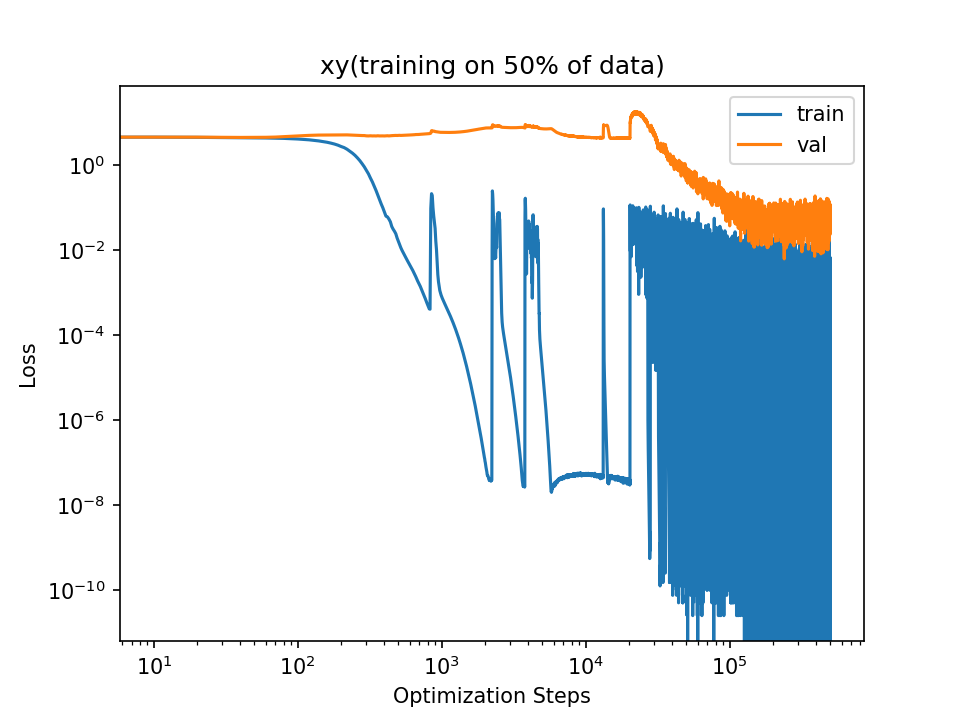
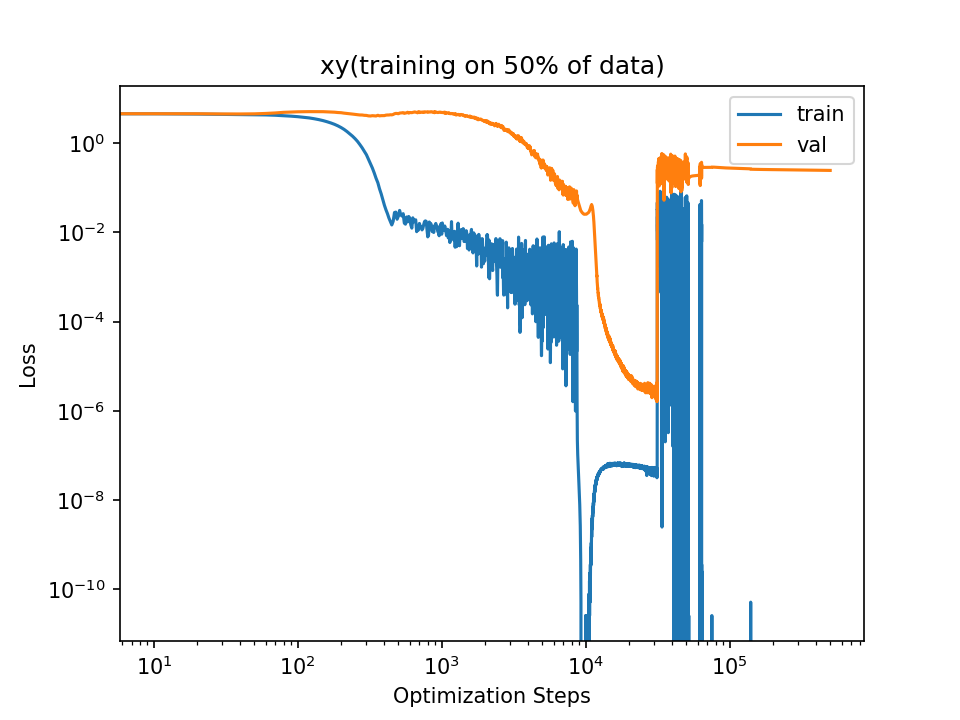
grad clipping

diff --git a/train.py b/train.py
@@ -81,7 +81,7 @@ def main(args):
 
     steps_per_epoch = math.ceil(train_data.shape[1] / args.batch_size)
 
-    train_acc, val_acc, train_loss, val_loss = [], [], [], []
+    train_acc, val_acc, train_loss, val_loss, grad_norms = [], [], [], [], []
     exp=0
     for e in tqdm(range(int(args.budget) // steps_per_epoch)):
 
@@ -93,6 +93,7 @@ def main(args):
             model.train(is_train)
             total_loss = 0
             total_acc = 0
+            total_norm = 0
 
             # torch.split faster than dataloader with tensor
             dl = torch.split(data, args.batch_size, dim=1)
@@ -108,6 +109,13 @@ def main(args):
                 if is_train:
                     model.zero_grad()
                     loss.backward()
+                    torch.nn.utils.clip_grad_norm_(model.parameters(), 0.01)
+                    norm=0
+                    for p in model.parameters():
+                        param_norm = p.grad.detach().data.norm(2)
+                        norm += param_norm.item() ** 2
+                    norm = norm ** 0.5
+                    total_norm+=norm
                     optimizer.step()
                     scheduler.step()
 
@@ -117,6 +125,7 @@ def main(args):
 
             if is_train:
                 #print("Train ", total_acc)
+                grad_norms.append(total_norm / train_data.shape[-1])
                 train_acc.append(total_acc / train_data.shape[-1])
                 train_loss.append(total_loss / train_data.shape[-1])
             else:
@@ -150,6 +159,14 @@ def main(args):
             plt.ylabel("Accuracy")
             plt.xscale("log", base=10)
             plt.savefig(f'figures/{args.operation}/acc.png', dpi=150)
+            plt.close()
+
+            plt.plot(steps, grad_norms)
+            plt.title(f'{args.operation}(training on 50% of data)')
+            plt.xlabel("Optimization Steps")
+            plt.ylabel("Grad norm")
+            plt.xscale("log", base=10)
+            plt.savefig(f'figures/{args.operation}/norm.png', dpi=150)
             plt.close()
 
             plt.plot(steps, train_loss, label="train")

diff --git a/operations.py b/operations.py
@@ -42,7 +42,7 @@ def generate_data(p, eq_token, op_token, operation):
     op = torch.ones_like(x) * op_token
     print(x.shape)
     if operation=="rand":
-        result=torch.randint(0, p, size=(96*96,))
+        result=torch.randint(0, p, size=(p*p,))
     else:
         result = operation(x,y) % p
 
